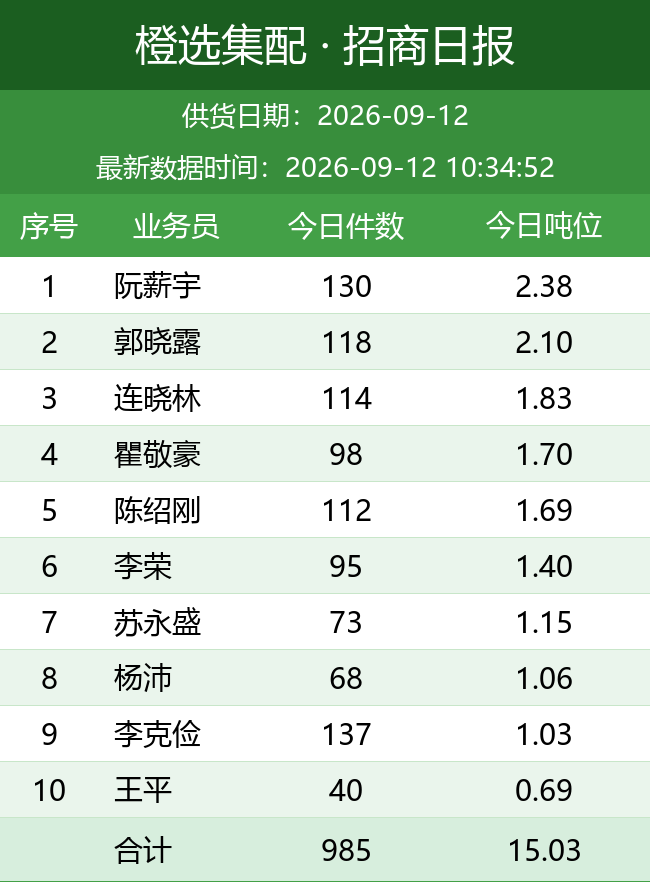
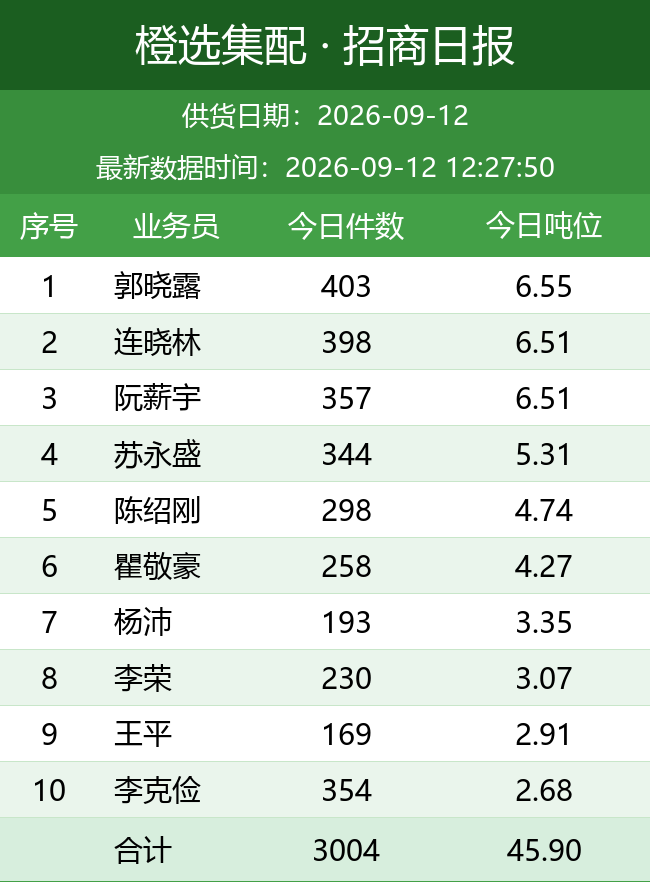
自动更新日报图片

diff --git a/index.html b/index.html
@@ -11,7 +11,7 @@ img { max-width: 100%; border: 1px solid #e5e5e5; margin-bottom: 24px; display: 
 </style>
 </head>
 <body>
-<h1>橙选集配日报图片（20260912_103456）</h1>
+<h1>橙选集配日报图片（20260912_122755）</h1>
 <img src="bd_latest.png" alt="BD 日报">
 <img src="wh_latest.png" alt="城市仓日报">
 <img src="zs_latest.png" alt="招商日报">
